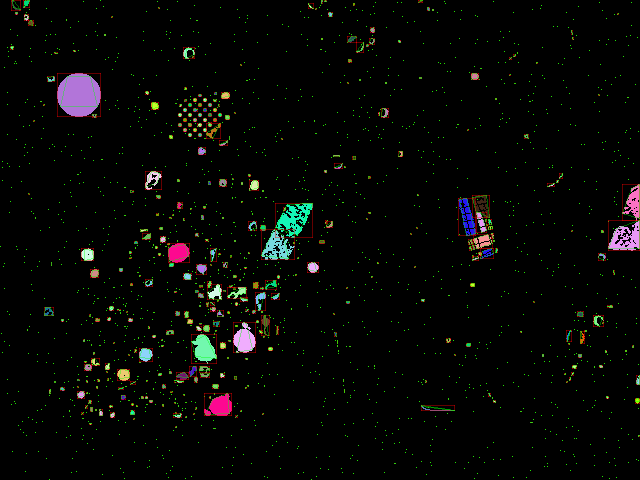
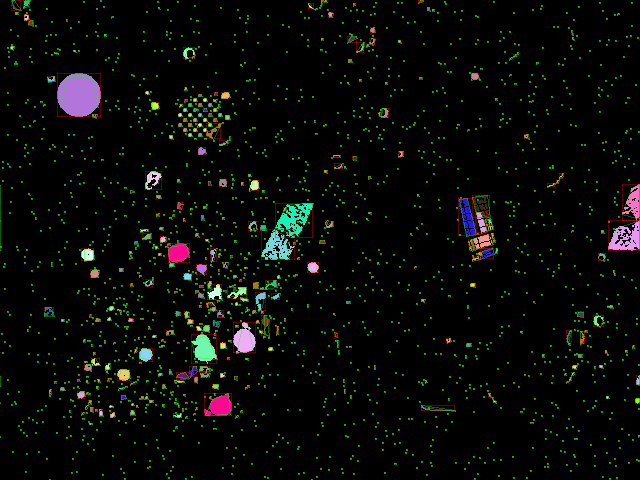
Fixed Indexer for new RLE

diff --git a/Scripting/BlobProcessor.ts b/Scripting/BlobProcessor.ts
@@ -323,6 +323,7 @@ function updateTargetSelector() {
 
 //Resetting
 function resetForNewFrame() {
+    //FIXME
     blobIndex = 0;
     blobRunBuffersPartionCurrent = NULL_RUN_BUFFER_PARTION;
     blobRunBuffersPartionLast = NULL_RUN_BUFFER_PARTION;
@@ -473,7 +474,7 @@ function runImage(imageInputPath: string, imageOutputPath: string): Promise<void
             }
 
             //Draw Blob Bounding Box + Quad
-            for (let i = 0; i <= blobIndex; i++) {
+            for (let i = 0; i < blobIndex; i++) {
                 const blob = blobBRAM[i];
                 if (blobValids[i]) {
                     if (DRAW_BOUND) {

diff --git a/Scripting/BlobUtil.ts b/Scripting/BlobUtil.ts
@@ -68,9 +68,9 @@ export function runToBlob(run: Run, start: number, line: number): BlobData {
         boundTopLeft:     {x:start , y:line  },
         boundBottomRight: {x:stop+1, y:line+1},
         quadTopLeft:      {x:start , y:line  },
-        quadTopRight:     {x:stop+1, y:line+1}, //TODO
+        quadTopRight:     {x:stop  , y:line  },
         quadBottomLeft:   {x:start , y:line  },
-        quadBottomRight:  {x:stop+1, y:line+1}, //TODO
+        quadBottomRight:  {x:stop  , y:line  },
         area: run.length
     };
 }

diff --git a/Scripting/Config.ts b/Scripting/Config.ts
@@ -1,9 +1,9 @@
 //Config
 export const IMAGES_INPUT_PATH = 'images';
 export const IMAGES_OUTPUT_PATH = 'output';
-export const IMAGE_INPUT_PATH = 'images/2019_Noise.png';
+export const IMAGE_INPUT_PATH = 'images/Test5.png';
 export const IMAGE_OUTPUT_PATH = 'out.png';
 export const SINGLE_IMAGE_MODE = true;
-export const DRAW_BLOB_COLOR = true;
+export const DRAW_BLOB_COLOR = false;
 export const DRAW_BOUND = true;
-export const DRAW_QUAD = true;
+export const DRAW_QUAD = false;

diff --git a/Scripting/BlobConstants.ts b/Scripting/BlobConstants.ts
@@ -6,7 +6,7 @@ export const MAX_BLOBS = 2000; //288,000-bits
 //max depth getRealBlobID() will follow a pointer (under normal cond: max needed ~3)
 export const MAX_BLOB_POINTER_DEPTH = 5;
 
-//max runs RLE can create per line (under normal cond: max needed ~26)
+//max runs RLE can create per line (under normal cond: max needed ~40)
 export const MAX_RUNS_PER_LINE = 60;
 
 //null values
